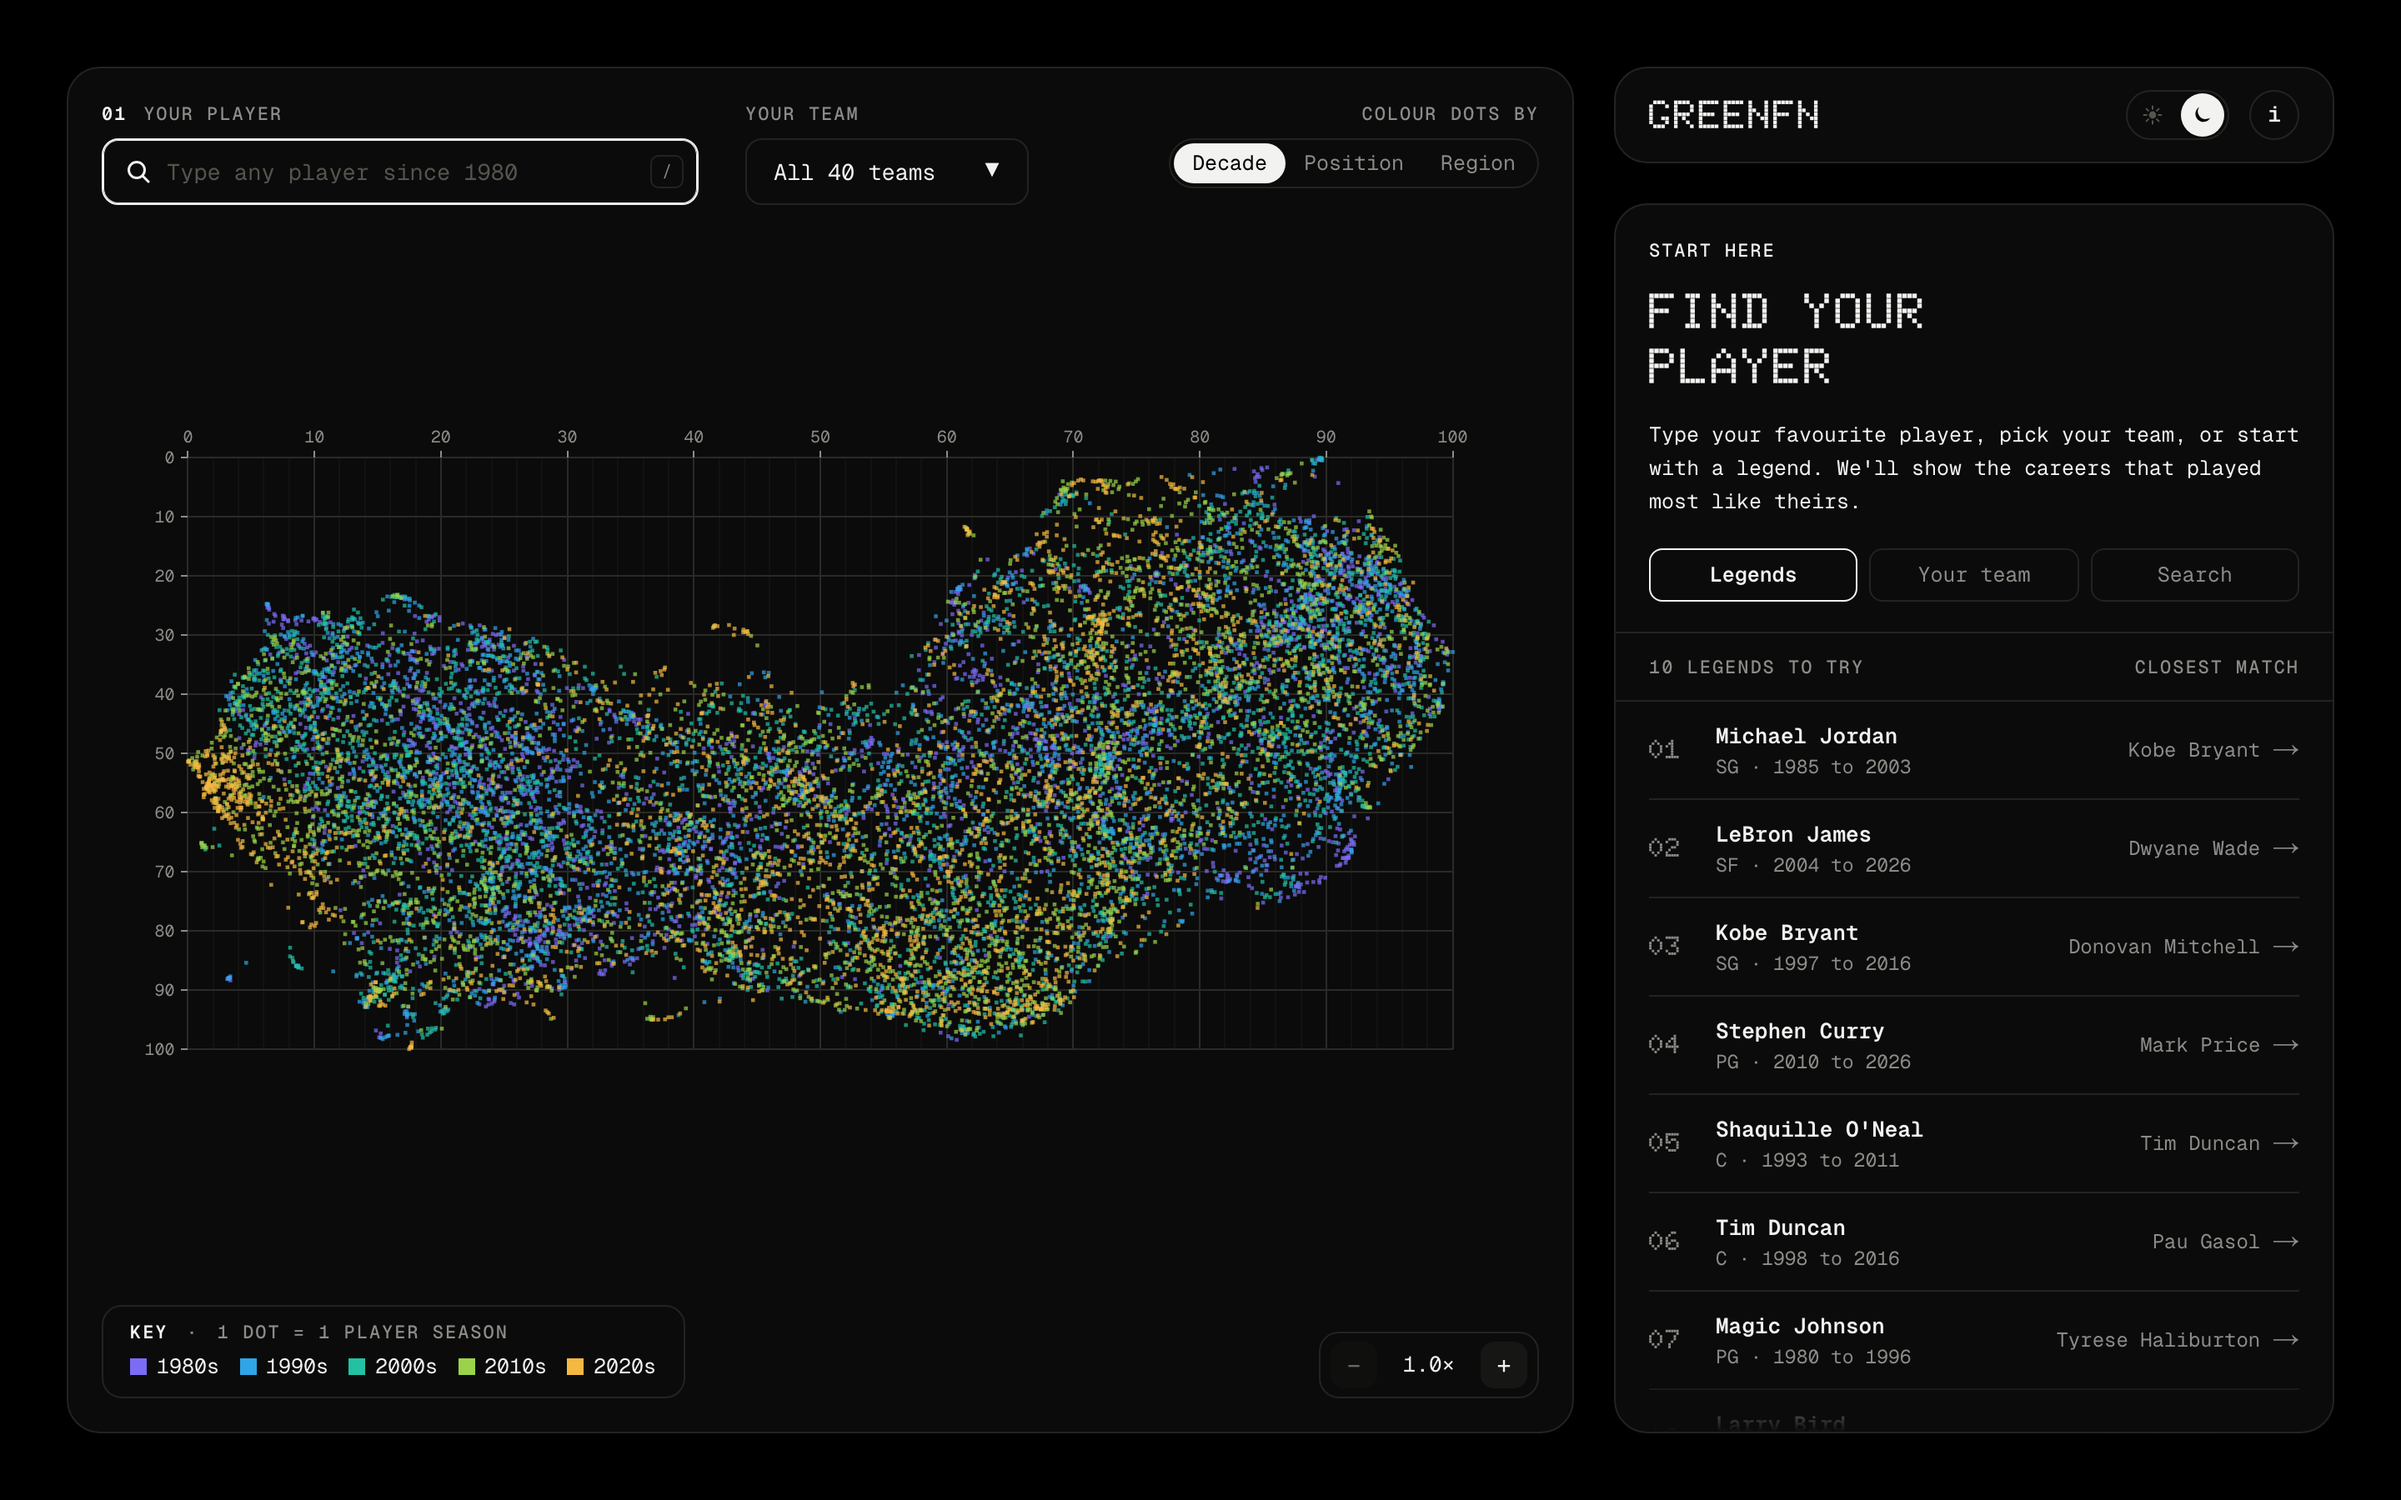
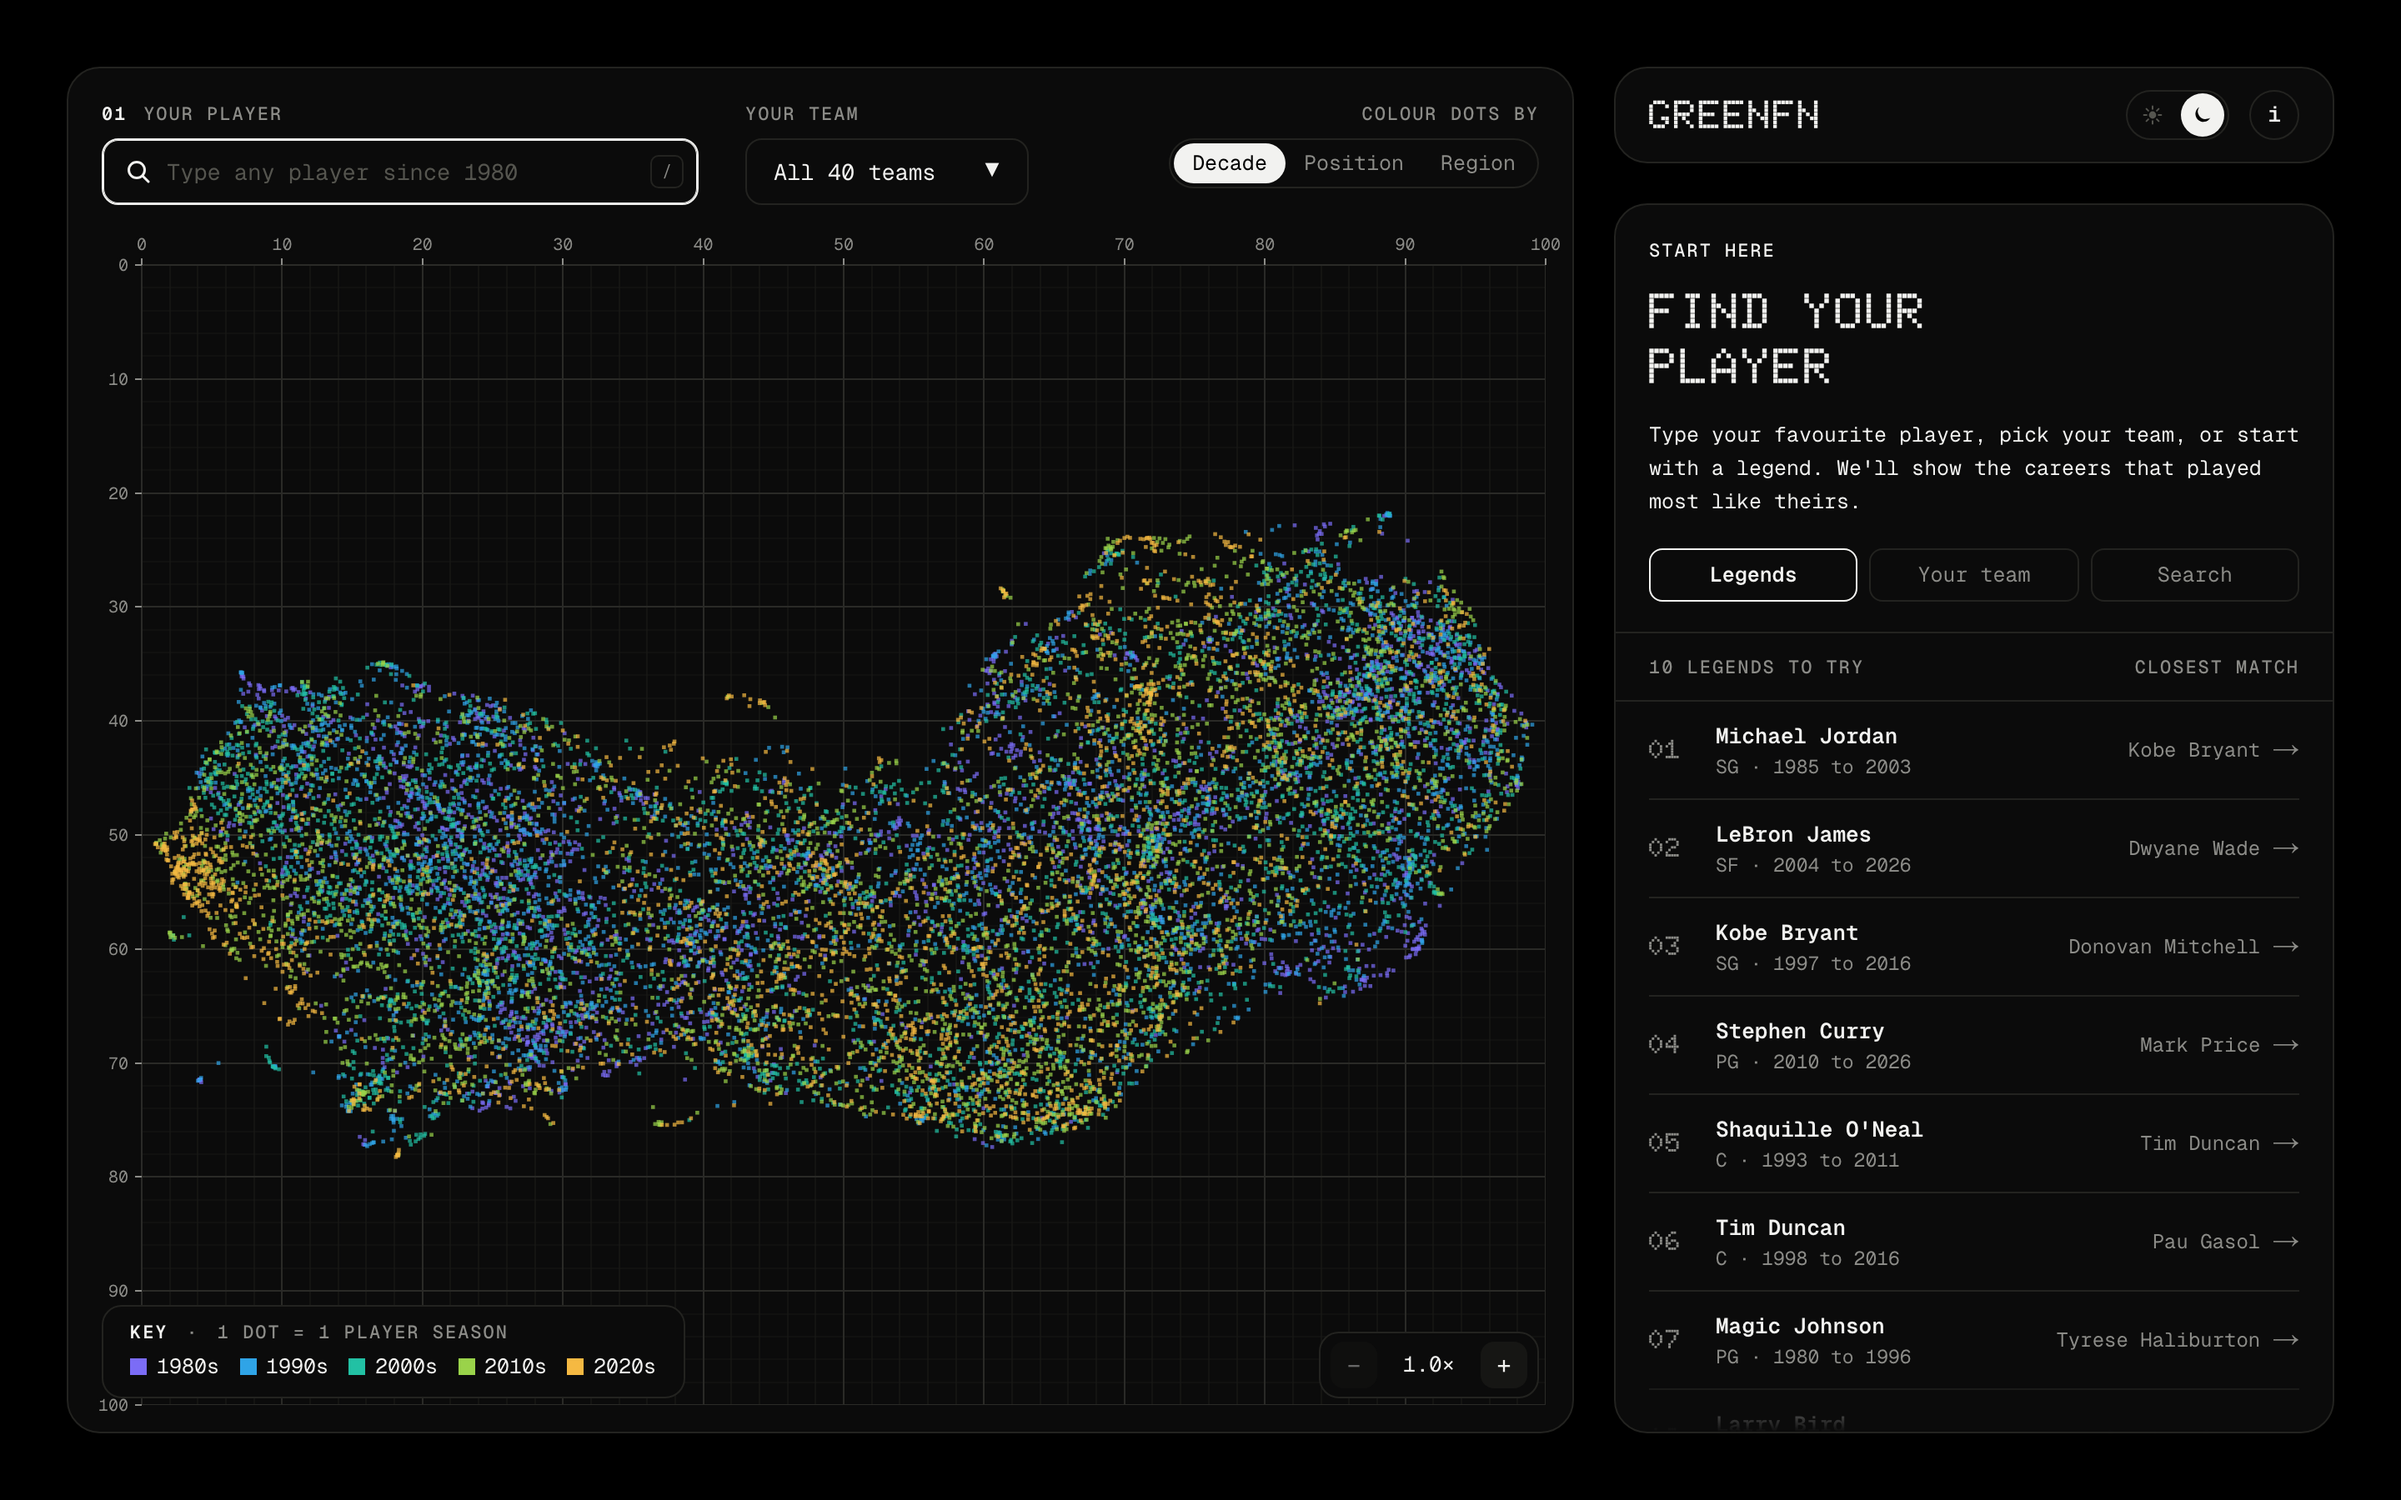
Phase 7f: frame checks and screenshots
scripts/check-frame.mjs: at 1440x900, 1280x800 and 1024x768 the outer grid lines are within 1 px of the frame edges, the dots' aspect ratio matches the data's (2.1376) and they fill the frame with an 8 px margin, centred (9 of 9). Pan and zoom checks read the frame from the map; unit tests cover the frame clamp, the fit and the frame. 54 tests pass, parity unchanged, build passes, Lighthouse accessibility 100. Fresh 1x and 4x screenshots in both themes.

Changed region(s): [[0.0625, 0.28, 0.6562, 0.7778]]

diff --git a/web/src/lib/map.test.ts b/web/src/lib/map.test.ts
@@ -1,5 +1,5 @@
 import { describe, expect, it } from "vitest";
-import { applyT, clampT, giveAt, IDENTITY, K_MAX, zoomAround } from "./map";
+import { applyT, clampT, fitInFrame, giveAt, IDENTITY, K_MAX, zoomAround } from "./map";
 
 const W = 800;
 const H = 600;
@@ -45,5 +45,31 @@ describe("map pan and zoom transform", () => {
   it("leaves a transform that is already in range unchanged", () => {
     const t = { k: 2, x: -300, y: -200 };
     expect(clampT(t, W, H)).toEqual(t);
+  });
+
+  it("with a grid frame, the frame keeps covering its 1x place, plus the give when zoomed", () => {
+    const frame = { minX: 28, minY: 20, maxX: W, maxY: H };
+    expect(clampT({ k: 1, x: 90, y: -40 }, W, H, frame)).toEqual({ k: 1, x: 0, y: 0 });
+    const far = clampT({ k: 4, x: 1e5, y: 1e5 }, W, H, frame);
+    expect(far.x).toBeCloseTo(28 * (1 - 4) + 0.25 * W);
+    expect(far.y).toBeCloseTo(20 * (1 - 4) + 0.25 * H);
+    const near = clampT({ k: 4, x: -1e5, y: -1e5 }, W, H, frame);
+    expect(near.x).toBeCloseTo(W * (1 - 4) - 0.25 * W);
+    expect(near.y).toBeCloseTo(H * (1 - 4) - 0.25 * H);
+  });
+});
+
+describe("fitting the dots into the grid frame", () => {
+  const pts = { n: 4, x: [0, 10, 0, 10], y: [0, 0, 4, 4] }; // 10 x 4 data units
+  it("keeps the real proportions, as large as fits with an 8 px margin, centred", () => {
+    const { bx, by, box } = fitInFrame(pts, { minX: 28, minY: 20, maxX: 828, maxY: 620 }, 8);
+    const w = box.maxX - box.minX;
+    const h = box.maxY - box.minY;
+    expect(w / h).toBeCloseTo(10 / 4, 6); // one scale for x and y
+    expect(w).toBeCloseTo(800 - 16); // width-limited: touches the margin on both sides
+    expect(box.minX).toBeCloseTo(36);
+    expect((box.minY + box.maxY) / 2).toBeCloseTo((20 + 620) / 2); // centred vertically
+    expect(by[0]).toBeCloseTo(box.maxY); // y up in data is down on screen
+    expect(bx[1]).toBeCloseTo(box.maxX);
   });
 });

diff --git a/web/src/lib/grid.test.ts b/web/src/lib/grid.test.ts
@@ -1,5 +1,5 @@
 import { describe, expect, it } from "vitest";
-import { computeGrid, LABEL, layoutLabels, majorStep, minorAlpha, niceStep } from "./grid";
+import { computeGrid, gridFrame, LABEL, layoutLabels, majorStep, minorAlpha, niceStep } from "./grid";
 
 // Roughly the app's 1x map: 723 x 338 px of dots inside an 840 x 593 plot.
 const box = { minX: 50, maxX: 773, minY: 128, maxY: 466 };
@@ -80,5 +80,13 @@ describe("map grid", () => {
     const lab = layoutLabels(g, 300, 1000);
     const xs = lab.across.map((l) => l.x);
     for (let i = 1; i < xs.length; i++) expect(xs[i] - xs[i - 1]).toBeGreaterThanOrEqual(3 * LABEL.charW + 6);
+  });
+
+  it("the frame is the whole plot right of and below the numbers, with 10s at 1x", () => {
+    const f = gridFrame(1180, 820);
+    expect(f).toEqual({ minX: LABEL.gapLeft + 3 * LABEL.charW + 2, minY: LABEL.gapTop + LABEL.h, maxX: 1180, maxY: 820 });
+    const g = computeGrid({ k: 1, x: 0, y: 0 }, f, 1180, 820);
+    expect(g.major).toBe(10);
+    expect(g.span).toEqual({ x0: f.minX, x1: 1180, y0: f.minY, y1: 820 });
   });
 });

diff --git a/web/src/components/MapPanel.tsx b/web/src/components/MapPanel.tsx
@@ -569,6 +569,8 @@ export function MapPanel(props: Props) {
           data-zoom={t.k.toFixed(2)}
           data-tx={t.x.toFixed(2)}
           data-ty={t.y.toFixed(2)}
+          data-frame={gridBox ? [gridBox.minX, gridBox.minY, gridBox.maxX, gridBox.maxY].map((v) => v.toFixed(2)).join(",") : undefined}
+          data-dots={base ? [base.box.minX, base.box.minY, base.box.maxX, base.box.maxY].map((v) => v.toFixed(2)).join(",") : undefined}
         >
           <svg aria-hidden="true" className="absolute inset-0 size-full">
             {grid && (
